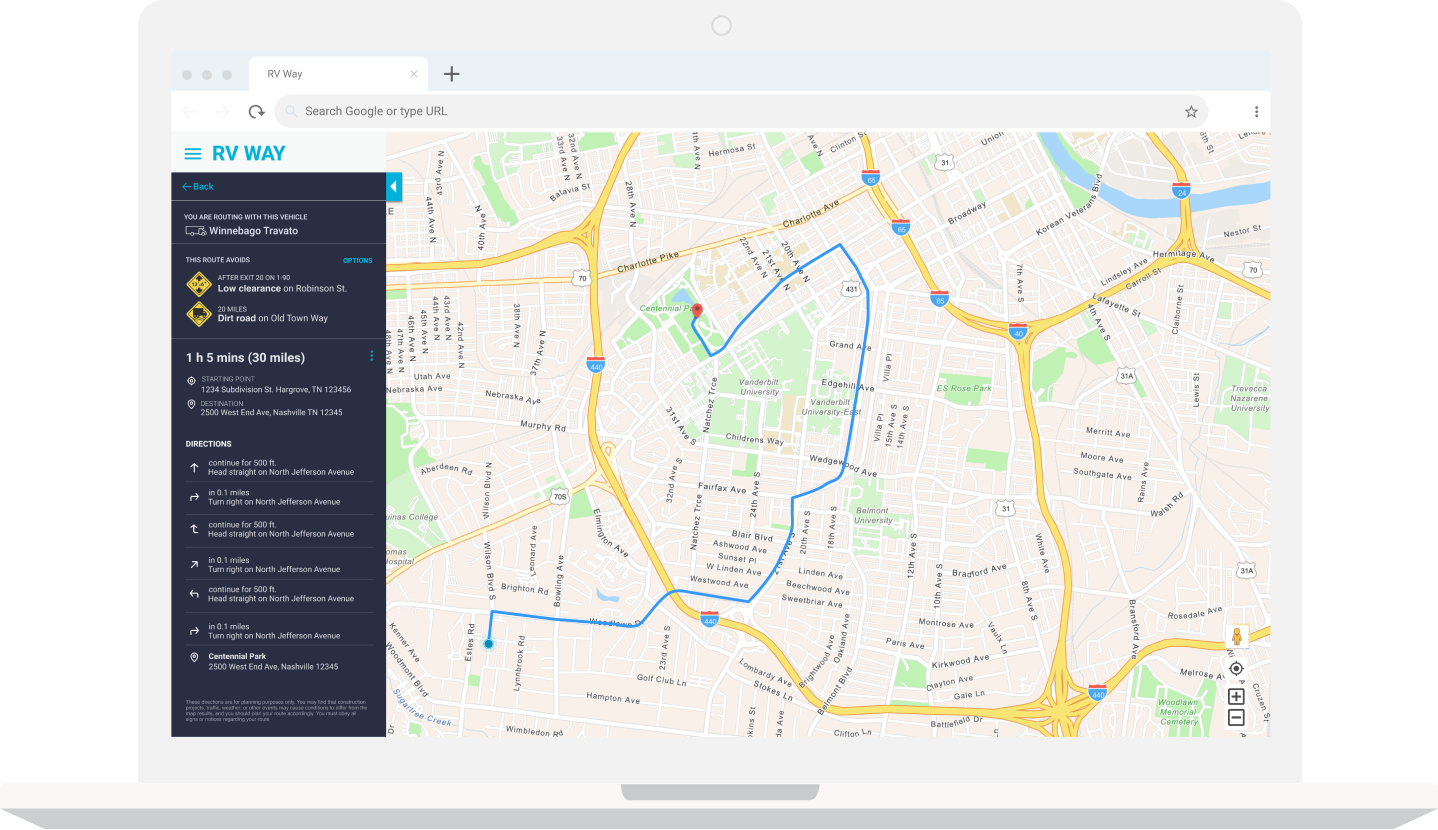
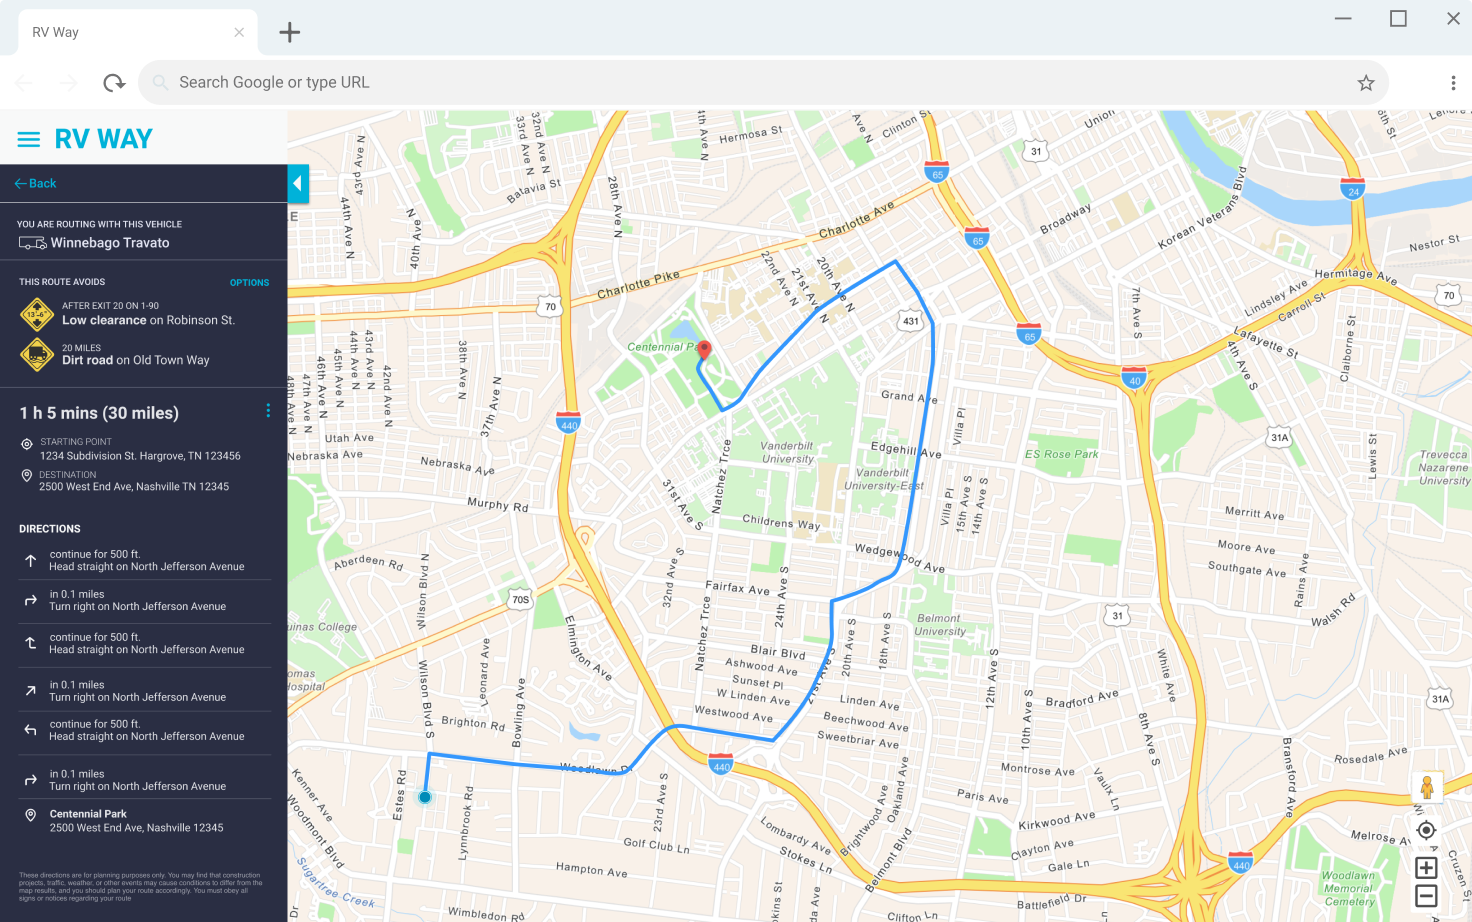
updated images

diff --git a/rvway.html b/rvway.html
@@ -149,7 +149,7 @@
                 <!-- Illustration -->
                 <div class="figure">
                     <div class="figure-img">
-                        <img src="images/rvway-wireframe.png" alt="">
+                        <img src="images/rvway-wireframe-x2.png" alt="Mobile screens of low-fidelity wireframes">
                     </div>
                 </div>
                 <p>But this was not the right solution because we later found out that we didn’t have the resources to get the right API which would provide the data for the points of interest. While all the initial features we designed were certainly “nice to haves”, it didn’t really directly impact the problem of safely routing the RV traveler from point A to point B.</p>
@@ -206,22 +206,22 @@
             <div class="section-content">
                 <p>The existing app is intended to generate a route that is safe for RVs after users input their vehicle’s specification but the pure unique value which is the navigation was broken. The user interface was also not intuitive. It wasn’t clear what the user is supposed to do first when they get to the map page. Navigating the app can be confusing and overall, the existing solution was just not usable.</p>
                 <div class="figure">
-                    <img src="images/rvway-before.png" alt="">
+                    <img src="images/rvway-before-x2.png" alt="">
                 </div>
                 <p>We made the user interface more intuitive and easy to use by designing a clean and simple look since our average demographic is older who might not be tech-savvy. We also used a more conversational language and avoided jargon and labels that might be confusing. And to save on production time, the redesigned sidebar requires none to minimal refactoring when converted to mobile.</p>
                 <div class="figure">
-                <img src="images/map-blank.png" alt="">
+                <img src="images/map-blank-x2.png" alt="">
                 </div>
                 <div class="figure">
-                    <img src="images/before-after.png" alt="">
+                    <img src="images/before-after-x2.png" alt="">
                 </div>
                 <p>Having users set up and save their vehicle profile is a crucial part of generating a route that is custom to their RVs. On the add a vehicle form, we fixed how the labels and fields are laid out in a much clearer format.</p>
                 <div class="figure">
-                    <img src="images/map-addvehicle.png" alt="">
+                    <img src="images/map-addvehicle-x2.png" alt="">
                 </div>
                 <p>The directions page has several sections that shows similar information that you would see on Google maps but one important section is the part that shows where the low bridges are and letting the user know that their RV is being routed away from low clearances, dirt roads or steep grades.</p>
                 <div class="figure">
-                    <img src="images/map-directions.png" alt="">
+                    <img src="images/map-directions-x2.png" alt="">
                 </div>
         </section>
         <!-- Iterations based on usability testing -->

diff --git a/rvway.less b/rvway.less
@@ -101,12 +101,18 @@ main {
     margin: 0 auto;
     padding-bottom: 2rem;
     .section-title {
-        h2 {
-          font-size: 1.6rem;
-          color: #1FB1D1;
-          padding-bottom: 1rem;
-          line-height: 2rem;
-        }
+      h2 {
+        font-size: 1.6rem;
+        color: #1FB1D1;
+        padding-bottom: 1rem;
+        line-height: 2rem;
+      }
+    }
+    .section-content {
+      h4 {
+        font-size: 1.1rem;
+        font-weight: 600;
+      }
     }
     // Media query - section 600px
     @media (min-width: 600px) {
@@ -130,6 +136,7 @@ main {
     .figure {
       img {
           width: 900px;
+          padding: 2rem 0;
       }
     }
     //Project background

diff --git a/css/rvway.css b/css/rvway.css
@@ -485,6 +485,10 @@ main .p-container .section-title h2 {
   padding-bottom: 1rem;
   line-height: 2rem;
 }
+main .p-container .section-content h4 {
+  font-size: 1.1rem;
+  font-weight: 600;
+}
 @media (min-width: 600px) {
   main .p-container {
     width: 80%;
@@ -506,6 +510,7 @@ main .p-container .section-title h2 {
 }
 main .p-container .figure img {
   width: 900px;
+  padding: 2rem 0;
 }
 main .p-container .three-column {
   padding-top: 1rem;
